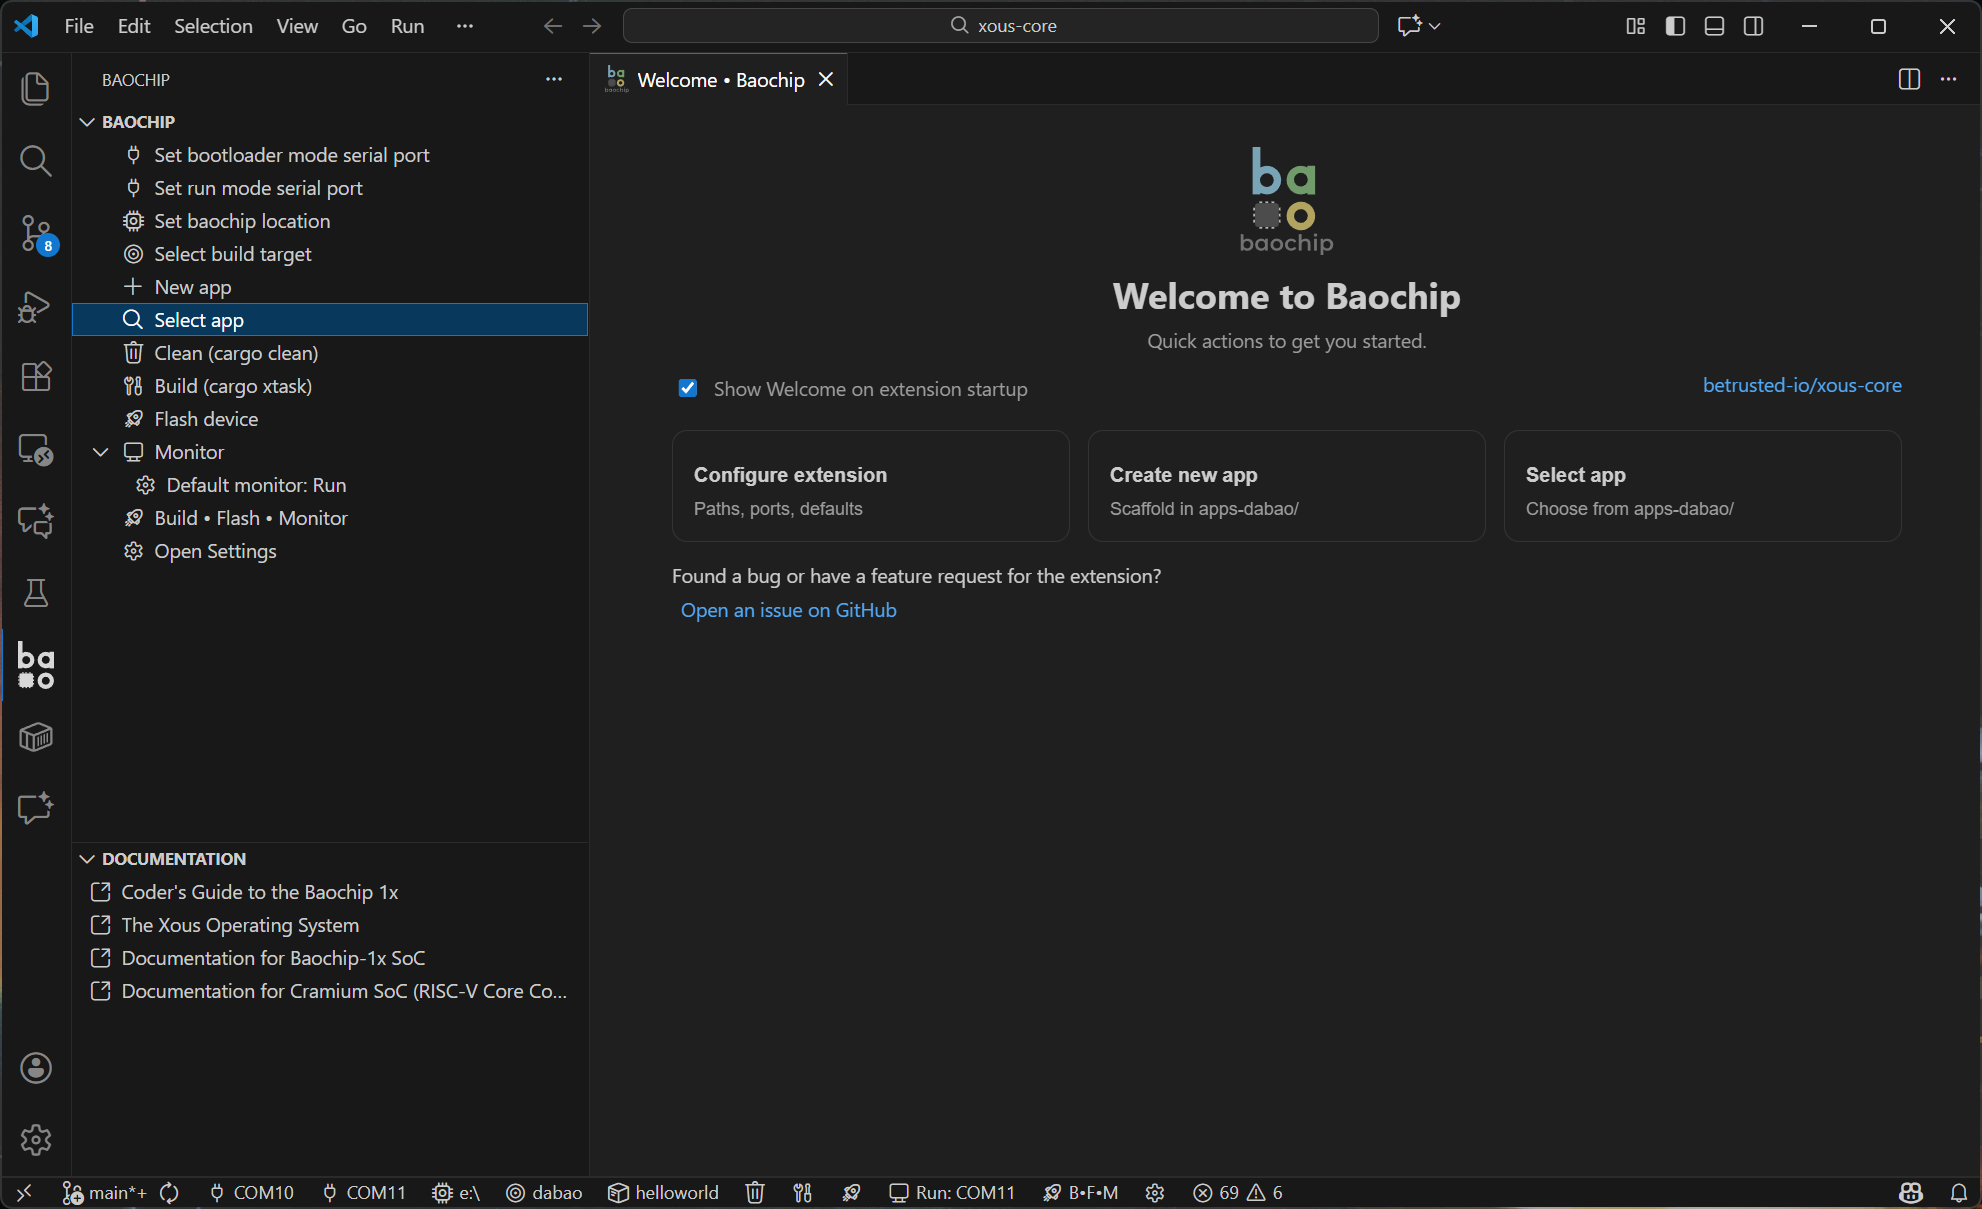
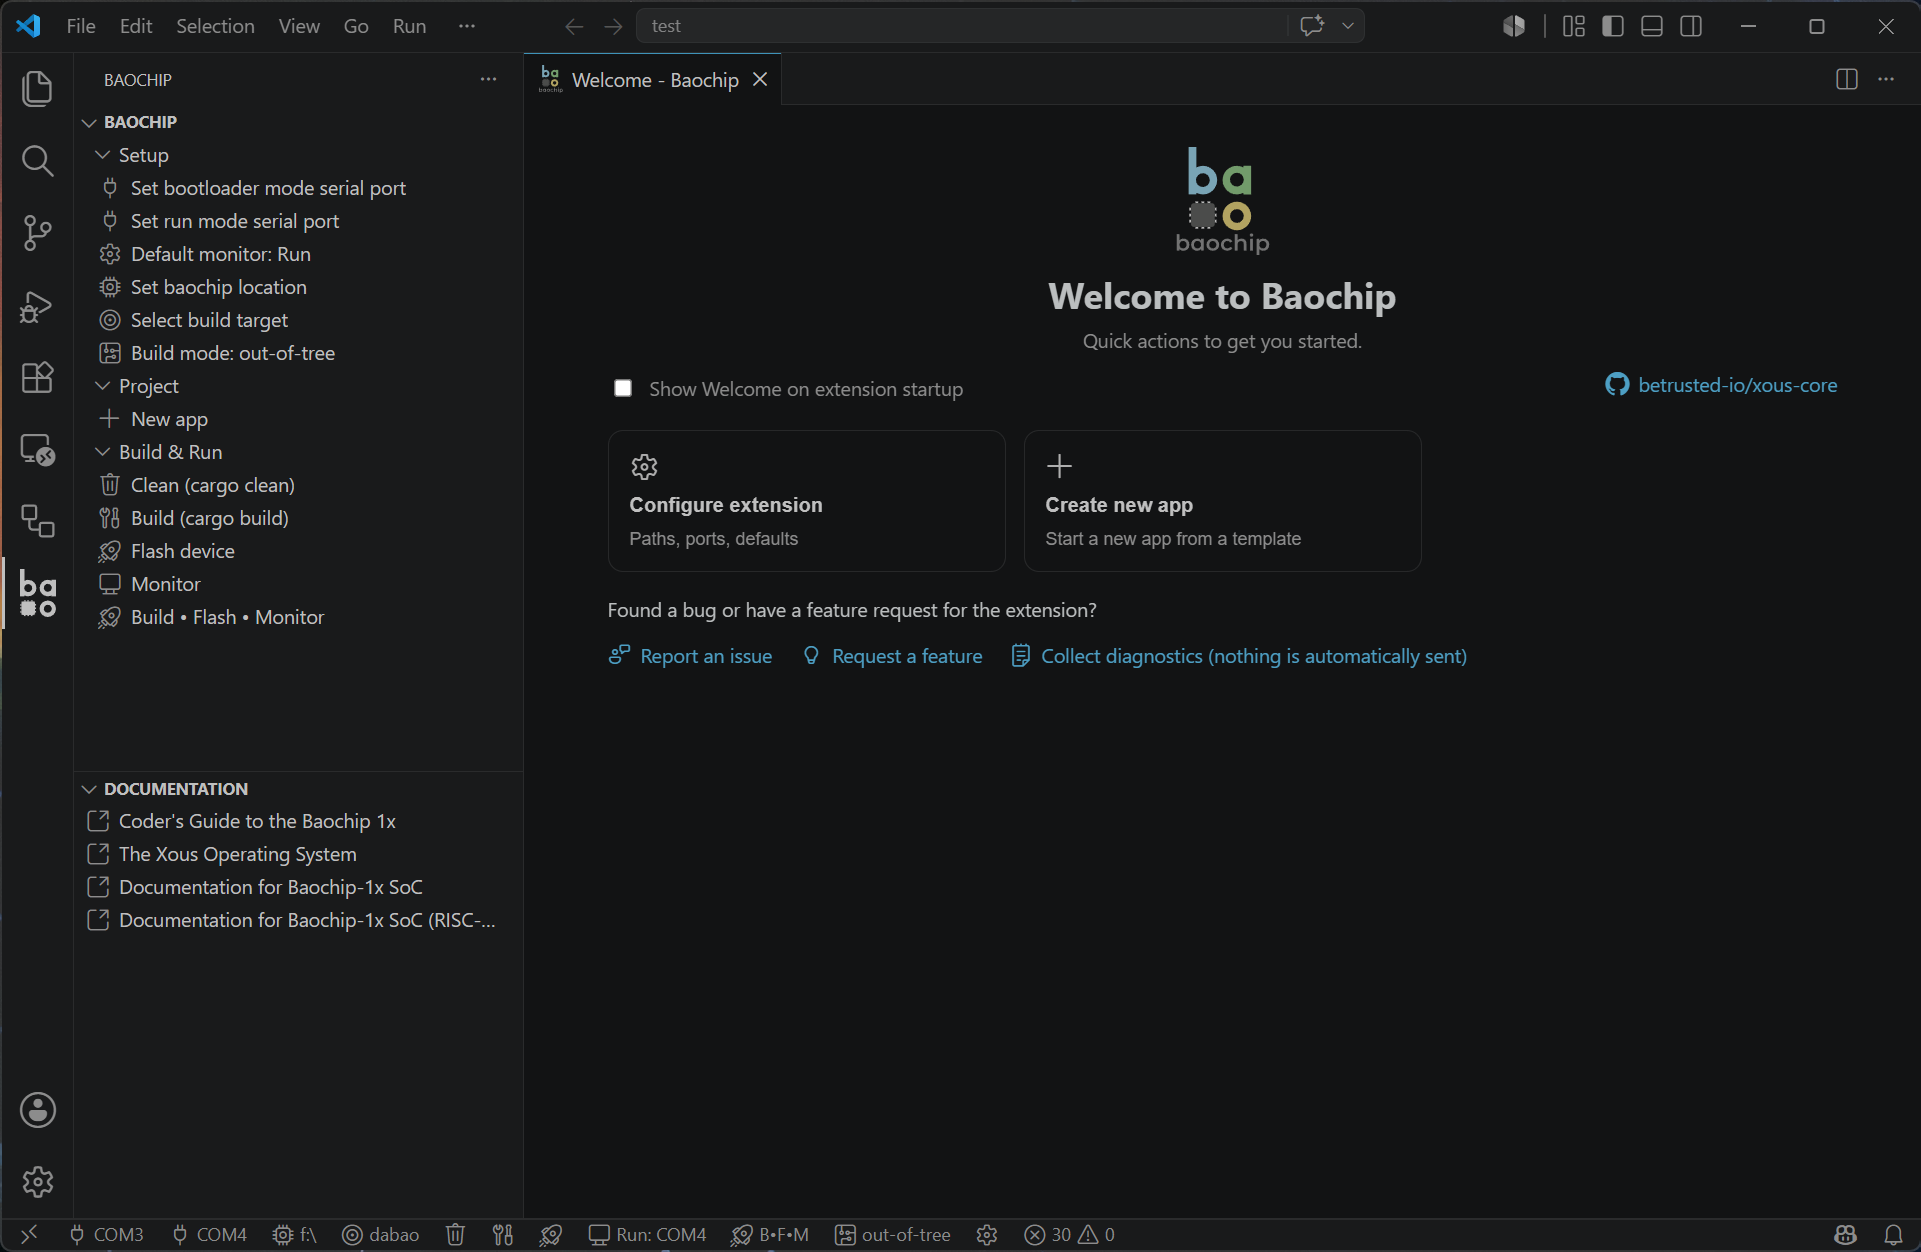
readme and image updates

diff --git a/README.md b/README.md
@@ -9,113 +9,77 @@ This extension integrates building, flashing, and serial monitoring directly int
 
 ---
 
-## Features
+## Two ways to build
 
-### Build Modes
-The extension auto-detects your workflow from the open workspace:
-- **In-tree** - develop apps inside a local `xous-core` checkout
-- **Out-of-tree** - develop standalone apps without a local `xous-core`; kernel files can be downloaded automatically or you can provide your own builds.
+The extension supports two workflows and auto-detects which one you are in from the open workspace
+(you can also set it explicitly in settings).
 
-### Welcome Page
-A simple start screen with:
-- Quick setup actions
-- App creation and selection
-- Links to documentation
-- Optional "show on startup" toggle
+### Out-of-tree (recommended for most apps)
 
-### Application Workflow
-- Create new Baochip applications (scaffolded under `xous-core/apps-dabao/`)
-- Select existing apps from `xous-core/apps-dabao/`
+Build a standalone Baochip app in any folder - you do not need a local copy of `xous-core`. The
+extension can create a starter project for you (set to a matching version of `xous-core`), or you can
+open an existing project. It downloads the kernel files needed to build (or you can use your own). It
+is the fastest way to get started.
 
-### Build Workflow
-- Select build target (e.g., `dabao`, `baosec`)
-- Full clean support
+### In-tree
 
-### Flash Workflow
-- Flash UF2 firmware to Baochip devices
-
-### Serial Monitor
-- Raw mode (immediate keystroke passthrough)
-- Line mode with CRLF normalization
-- Run Mode <-> Bootloader Mode option for ports
-
-### Combined Build/Flash/Monitor Command
-A single command that:
-1. Builds the firmware  
-2. Flashes via UF2  
-3. Prompts board to boot
-4. Opens the serial monitor connected to the board in run mode
-
-Useful for rapid development cycles.
-
-### Sidebar Integration
-Provides:
-- Build / flash / monitor controls
-- App-related commands
-- Documentation links
-
-### Localization
-The extension user interface supports:
-- German (de)
-- Japanese (ja)
-- Simplified Chinese (zh-cn)
-- Traditional Chinese (zh-tw)
+Develop inside a local `xous-core` checkout. Your app lives alongside the OS under `apps-<target>/`,
+and you build the whole system (kernel, services, and app) using the tree's own `cargo xtask`. Choose
+this when you are modifying `xous-core` itself or building targets such as `baosec`.
 
 ---
 
 ## Quickstart
 
-### 1. Install Requirements
-- Python 3 (optional - if none is found on your system, the extension installs a private copy for you)
+### Requirements
 
-### 2. Open your project
+**Rust** (via [rustup](https://rustup.rs)) is the only thing you install yourself. The first time you
+build, the extension asks before installing anything else it needs (the RISC-V target, Xous toolchain,
+and related tools). Its Python tooling goes in VS Code's own storage and is removed when you uninstall
+the extension (see Storage and disk space below).
 
-**In-tree:** Clone and open `xous-core` in VS Code:
-```sh
-git clone https://github.com/betrusted-io/xous-core
-```
-Then, use **Baochip: New App** to add an app to the tree (see step 4).
+### Out-of-tree (recommended)
 
-**Out-of-tree:** Open any folder in VS Code - no `xous-core` required. Use **Baochip: New App** to start from scratch.
+1. Open your project folder in VS Code - new or existing, no `xous-core` needed.
+2. For a new app, run **Baochip: New App** to create one from the starter template.
+3. **Build**, **Flash**, and **Monitor** - kernel images are downloaded automatically.
 
-### 3. Configuring the extension
+### In-tree
 
-- Prompts for paths, serial ports, and flash locations will appear during normal workflows.
-- You can additionally configure settings ad-hoc from the commands list, toolbar, or from Settings
+1. Clone and open `xous-core`, or open your existing checkout:
+   ```sh
+   git clone https://github.com/betrusted-io/xous-core
+   ```
+2. Run **Baochip: New App** to add an app under `apps-<target>/`, or **Baochip: Select App** to use an existing one.
+3. **Build**, **Flash**, and **Monitor**.
 
-### 4. Create or Select an App
+Prompts for paths, serial ports, and flash locations appear during normal use. You can also configure
+everything from the command palette, the Baochip sidebar, or VS Code Settings.
 
-Use the Welcome page or the command palette:
+---
 
-    Baochip: New App
-    Baochip: Select App
+## Features
 
-Applications live inside:
-
-    xous-core/apps-dabao/
-
-### 5. Write code!
-
-- Write code for your app inside the apps location you have selected.
-
-### 6. Build, Flash, Monitor
-
-You may use any of the following:
-
-- Individual commands
-- The Baochip sidebar
-- Or the combined all-in-one command:
-
-    Baochip: Build • Flash • Monitor
+- **Welcome page** - quick setup actions, app creation and selection, and documentation links.
+- **App workflow** - create and select apps. Out-of-tree apps live in your project folder; in-tree
+  apps live under `apps-<target>/`.
+- **Build** - pick a build target (e.g. `dabao`, `baosec`), with full clean support.
+- **Flash** - copy UF2 firmware to your Baochip device, with drive auto-detection and verification.
+- **Serial monitor** - raw or line mode (with CRLF normalization), and Run Mode <-> Bootloader Mode
+  port handling.
+- **Build / Flash / Monitor** - one command builds, flashes, boots the board, and opens the monitor,
+  for a fast edit-and-run loop.
+- **Sidebar** - build, flash, and monitor controls plus app commands and documentation links.
+- **Localization** - German (de), Japanese (ja), Simplified Chinese (zh-cn), Traditional Chinese
+  (zh-tw).
 
 ---
 
 ## Storage and disk space
 
-The extension installs its Python tooling into VS Code's own global storage - not into your project
-or onto your system PATH - so it is fully self-contained and is removed when you uninstall the
-extension. If a working `uv` is already installed on your machine, the extension reuses it instead of
-installing its own.
+Anything the extension installs automatically - uv, and a Python runtime if none is found - goes into
+VS Code's own storage, never into your project or onto your system PATH. It is fully self-contained
+and removed when you uninstall the extension.
 
 `Baochip: Reset UV Setup` clears the saved setup and can delete the cached virtual environment (rebuilt
 on the next command); `Baochip: Re-run Extension Setup` deletes the private uv, Python, and virtual
@@ -126,7 +90,3 @@ Approximate space used under VS Code global storage:
 - uv (installed automatically if not already present): ~35 MB
 - Python runtime (downloaded only if no system Python is found): ~150 MB
 - Python virtual environment and dependencies (pyserial, etc.): ~30 MB
-
-If no suitable Python is found on your system, the extension can download a self-contained Python for
-you, which uses roughly an additional 150 MB. Nothing is written outside VS Code's storage.
-